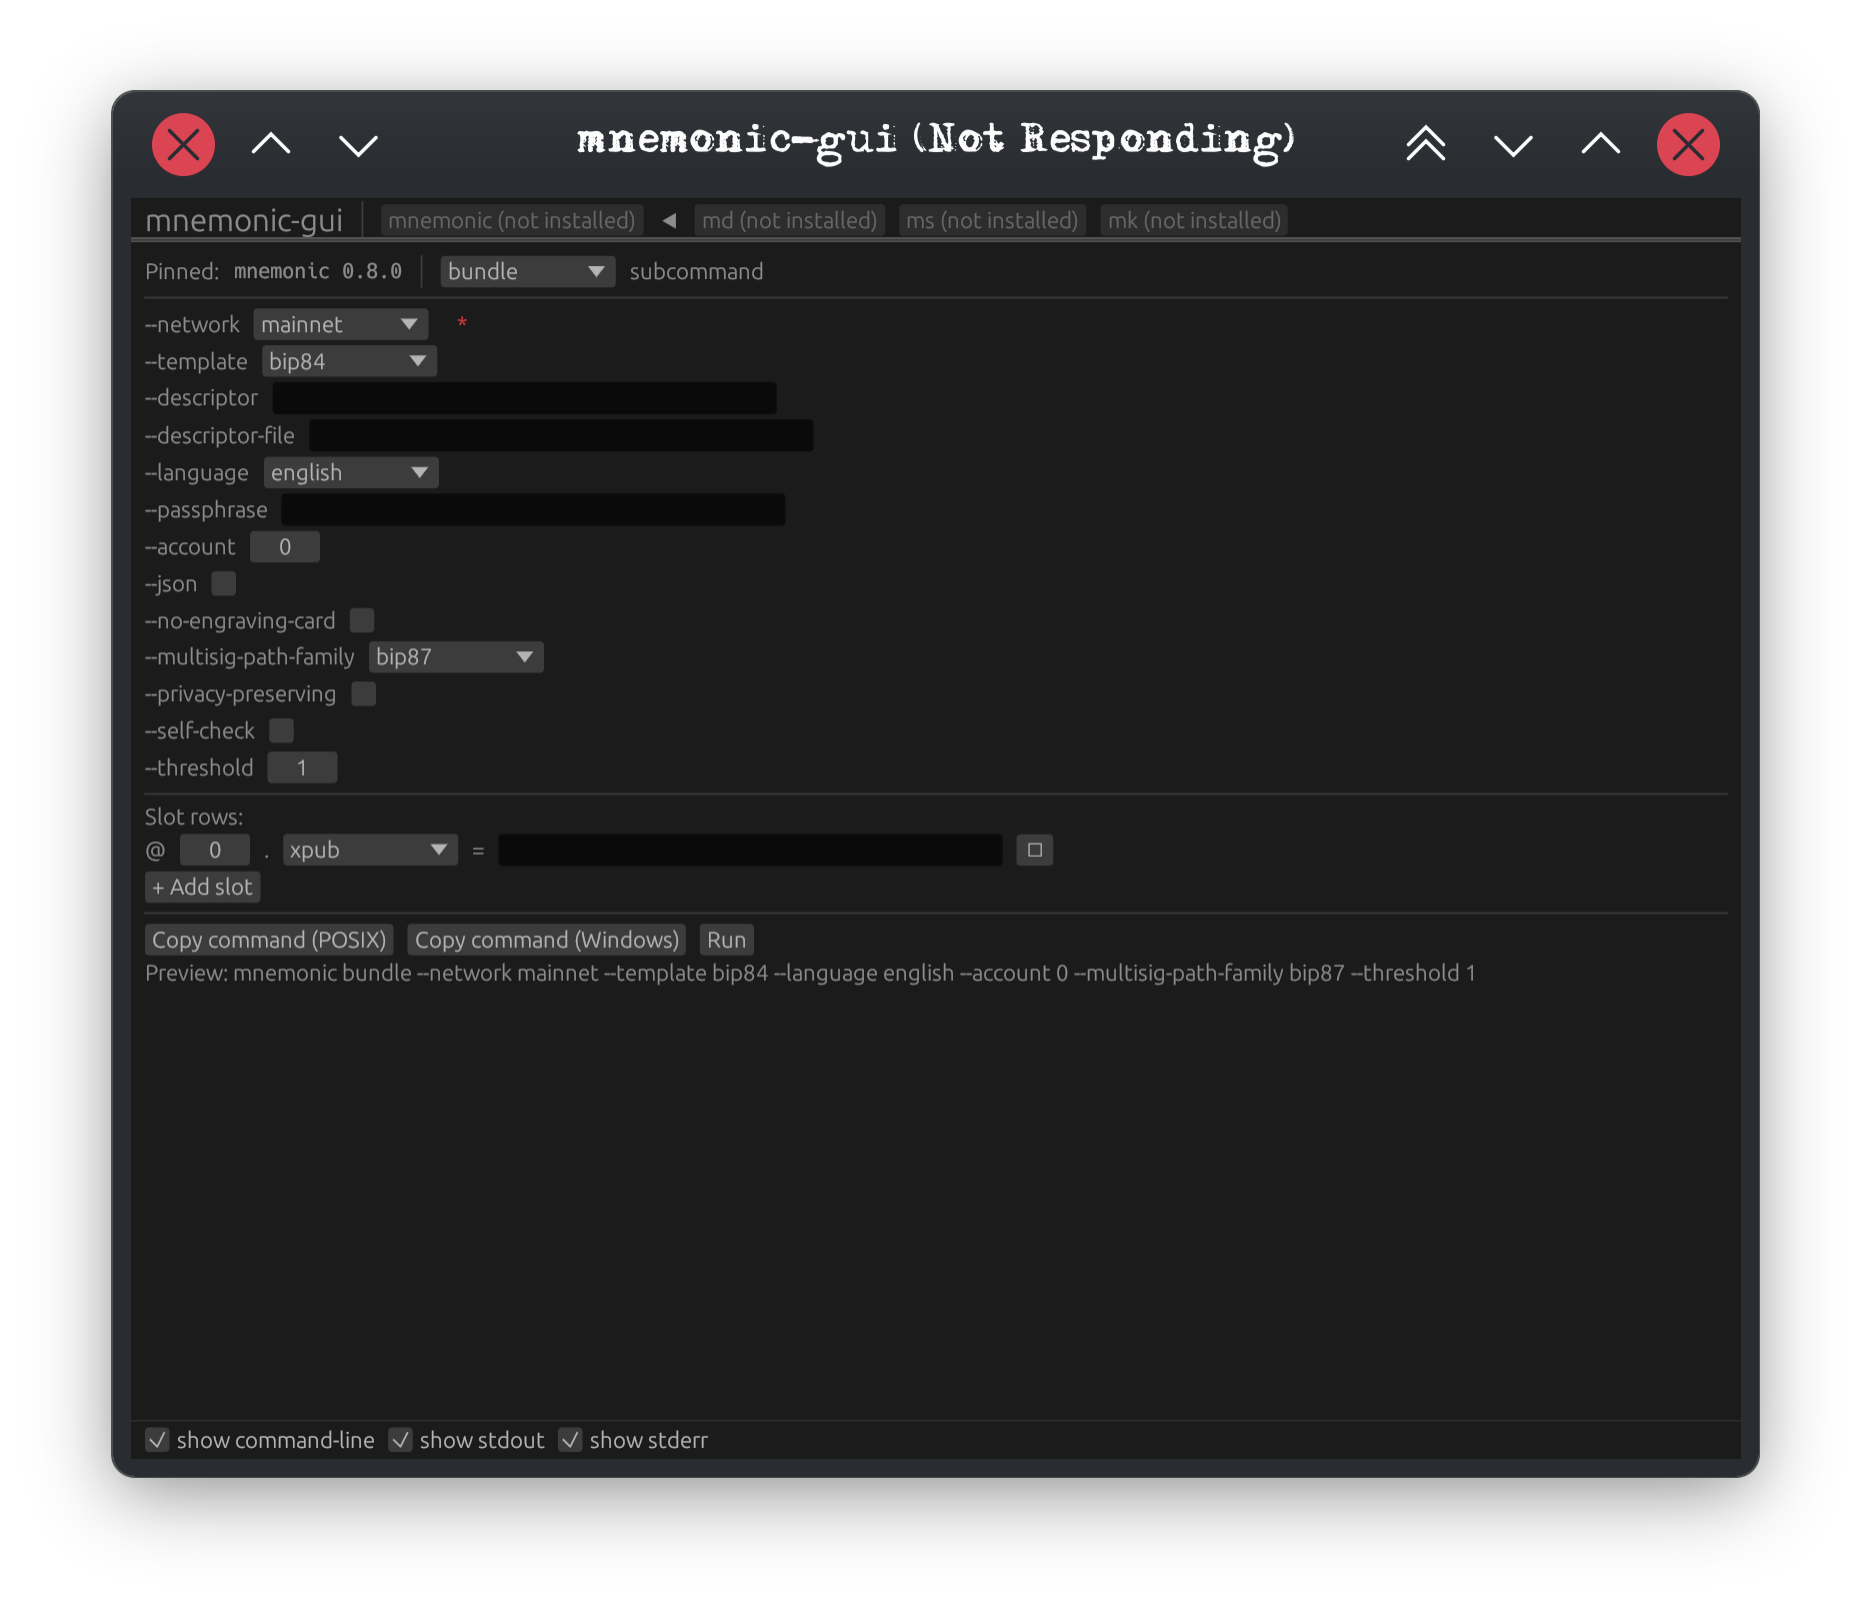
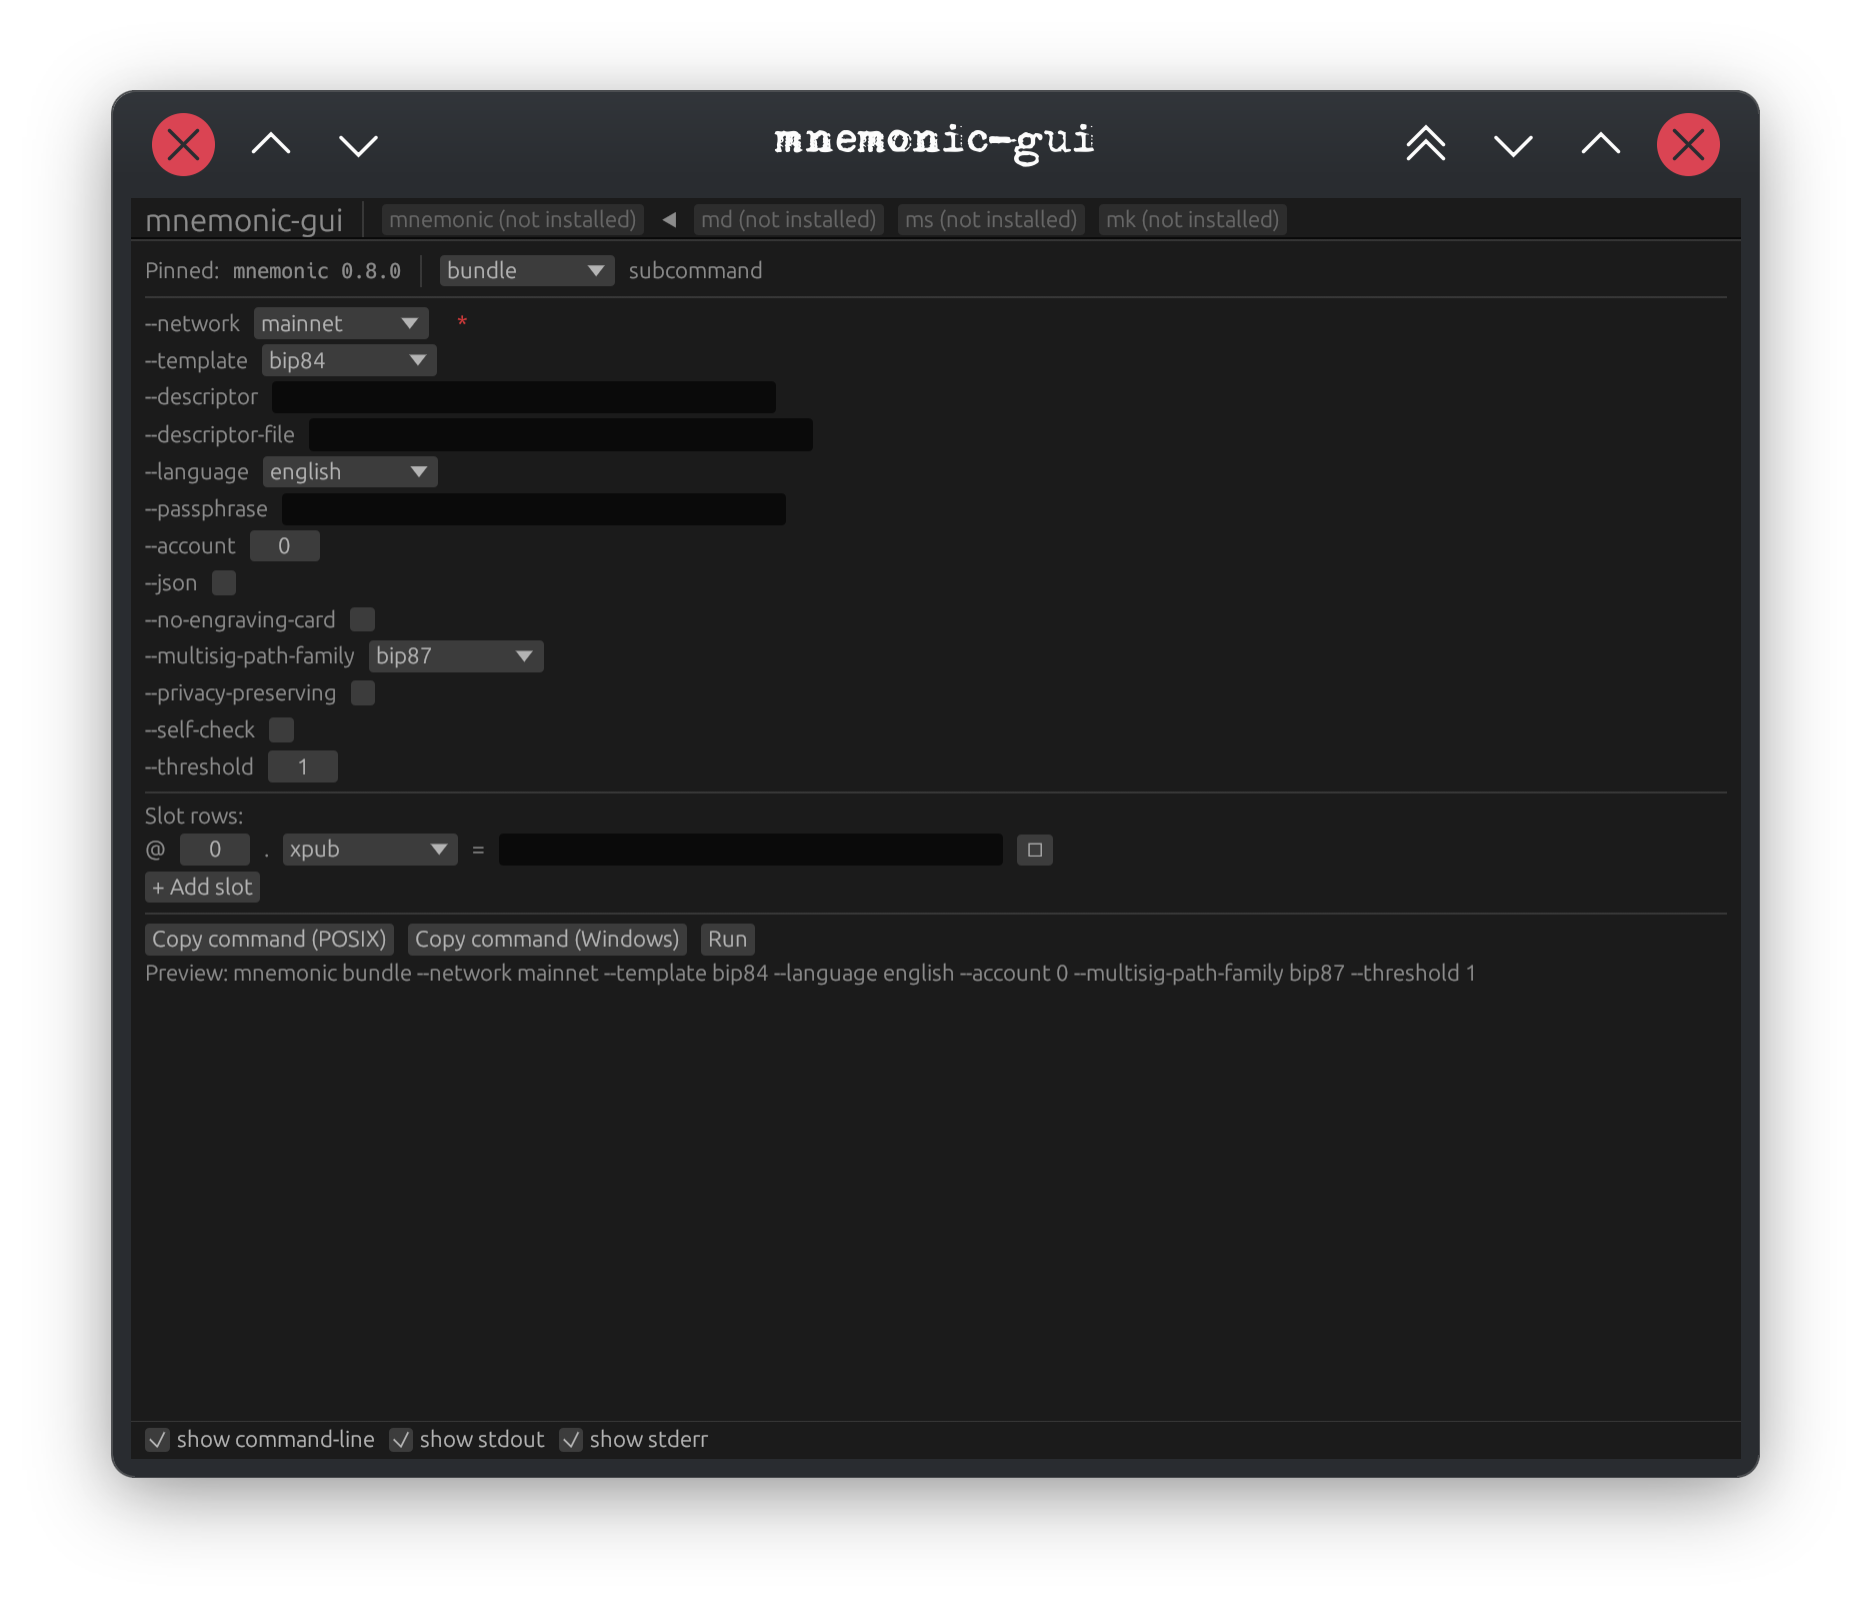
release(mnemonic-gui-v0.1.1): wgpu-fixed GUI + fresh screenshots
v0.1.1 release prep on top of 81d157a (the egui_glow → egui_wgpu
swap that restored the wayland event loop). This commit bumps the
Cargo version, retakes the README screenshots against the working
wgpu build, and adds a CHANGELOG entry summarizing what changed
from v0.1.0.

The new screenshots (01-mnemonic-bundle, 02-mnemonic-export-wallet,
03-mnemonic-convert) all show the title bar reading "mnemonic-gui"
without the "(Not Responding)" suffix that disfigured the v0.1.0
captures. The form widgets are unchanged from v0.1.0; only the
event-loop wakeup mechanism was broken.

v0.1.0 stays in place as the first published release for history;
v0.1.1 is the first functional one.

diff --git a/CHANGELOG.md b/CHANGELOG.md
@@ -3,6 +3,63 @@
 All notable changes to `mnemonic-gui` are recorded here. Follows
 [Keep a Changelog](https://keepachangelog.com/en/1.1.0/) format.
 
+## [0.1.1] — 2026-05-12
+
+First functional GUI release. v0.1.0 shipped the full architecture
+(schema, form widgets, slot editor, runner, secrets, persistence, CI
+gates) but its eframe loop was wired against the `egui_glow` renderer,
+which is broken on KDE/KWin Wayland: after the initial 1–2 paint
+cycles, the wayland event loop went stuck, ignoring cross-thread
+`request_repaint()` and `send_viewport_cmd(Close)`, ignoring KWin's
+`xdg_toplevel.close` events, and never reaching `on_exit()` for clean
+shutdown. KDE marked the window "Not Responding" in its title bar.
+
+v0.1.1 swaps `egui_glow` → `egui_wgpu` (Vulkan via Mesa). With the
+wgpu renderer, every cross-thread wake mechanism works: `update()`
+runs at the 1 Hz keepalive cadence (CPU still ~0 % at idle), KWin
+sees regular surface commits (no "Not Responding" label), SIGINT /
+SIGTERM route through `ViewportCommand::Close` to `on_exit()` in
+~2.5 s. Real user clicks would have failed under v0.1.0; they work
+under v0.1.1.
+
+### Changed
+
+- `eframe = "0.31"` with `default-features = false` and explicit
+  `features = ["wgpu", "default_fonts", "wayland", "x11"]` (was
+  `eframe = "0.29"` with default glow renderer).
+- `egui = "0.31"` (was `egui = "0.29"`).
+
+### Added
+
+- `signal-hook = "0.3"` dependency.
+- SIGINT / SIGTERM handler thread that routes through
+  `ViewportCommand::Close` for graceful shutdown (zeroize sweep +
+  `on_exit()`), with `process::exit(130)` fallback after 3 s if the
+  event loop is unresponsive.
+- 1 Hz `wayland-keepalive` background thread keeping the surface
+  alive for compositor liveness heuristics.
+- `init_tracing` filter suppresses `egui_wgpu` / `wgpu_hal`
+  swap-chain timeout warnings at default WARN level; visible under
+  `--debug` / `RUST_LOG=info`.
+- 3 demo screenshots in `screenshots/` against the working wgpu
+  build (replacing the v0.1.0 captures that showed the
+  frozen-at-first-paint "Not Responding" GUI).
+
+### Fixed
+
+- The event-loop-stuck bug described above (see
+  `FOLLOWUPS.md` → Resolved → `gui-glow-wayland-loop-broken`).
+- `on_exit()` signature updated to match the wgpu integration's
+  `fn(&mut Self)` (was `fn(&mut Self, Option<&glow::Context>)`).
+
+### Removed
+
+- Diagnostic instrumentation added during v0.1.1 dev (TICK label,
+  HEARTBEAT dialog, update() counter, keepalive tracing log) — kept
+  only the working production code paths.
+- Unused `with_position` viewport hint (Wayland ignores absolute
+  window positioning by protocol design).
+
 ## [0.1.0] — 2026-05-12
 
 First release. Cross-platform GUI overlay for the m-format constellation

diff --git a/README.md b/README.md
@@ -12,14 +12,15 @@ beyond display. The CLI remains the byte-exact source of truth.
 
 ## Status
 
-Released `mnemonic-gui-v0.1.0` on 2026-05-12. See
+Released `mnemonic-gui-v0.1.1` on 2026-05-12 (first functional GUI;
+v0.1.0 shipped a broken event loop, see CHANGELOG). See
 [`design/agent-reports/`](design/agent-reports/) for the phase-by-phase
 build log and [`CHANGELOG.md`](CHANGELOG.md) for the full release notes.
 
 ## Install from source
 
 ```bash
-cargo install --locked --git https://github.com/bg002h/mnemonic-gui --tag mnemonic-gui-v0.1.0
+cargo install --locked --git https://github.com/bg002h/mnemonic-gui --tag mnemonic-gui-v0.1.1
 ```
 
 The GUI subprocess-runs the four underlying CLIs; install each separately
